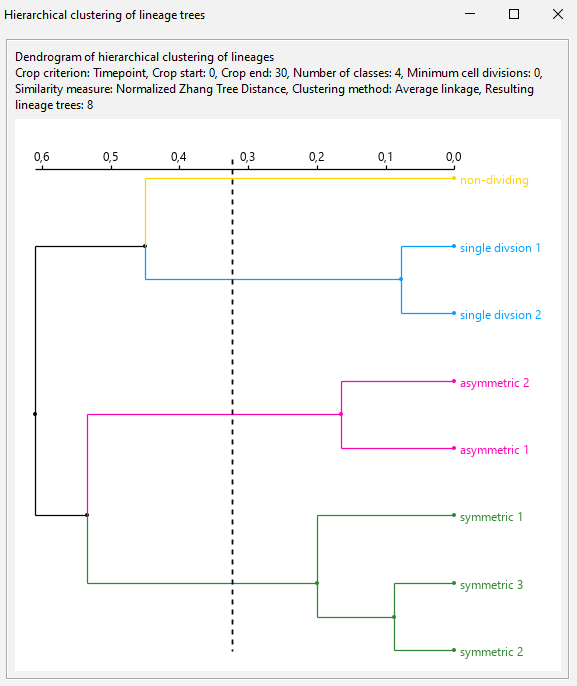
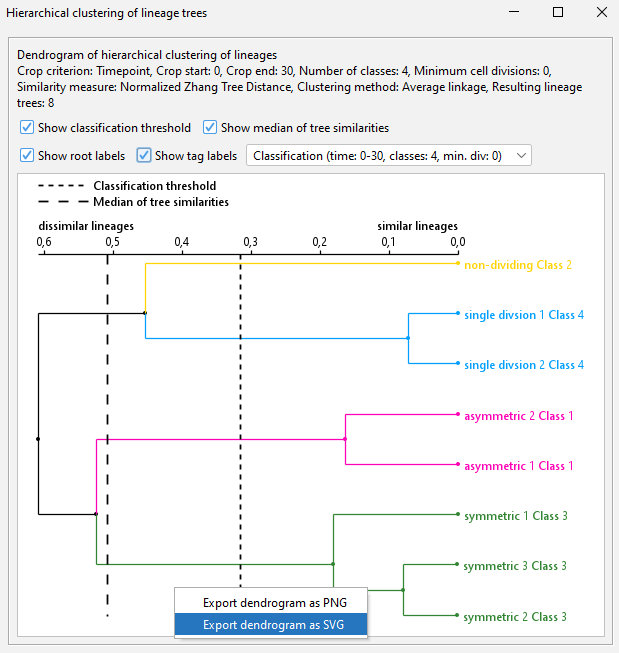
Update readme.md for deep lineage classification section
* Contains update of deep lineage release 0.2.0

diff --git a/docs/partC/deep_lineage/classification/readme.md b/docs/partC/deep_lineage/classification/readme.md
@@ -7,7 +7,8 @@
 * The cost function applied for the tree edit distance uses the attribute branch spot duration, which is computed as a
   difference of time points between to subsequent divisions reflecting the start and the end of a spot's lifetime.
 * Thus, the linage classification operates on Mastodon's branch graph.
-* The Zhang unordered edit distance allows the following edit operations:
+* The Zhang unordered edit distance allows the following edit operations. The edit operations are defined in a way that
+  they satisfy the constraints elaborated in section 3.1 ("Constrained Edit Distance Mappings") of the paper:
 
 ```
   Note: The prefix T may represent a node or a complete subtree. Nodes without this prefix are just nodes.
@@ -15,14 +16,14 @@
   1. Change label
  
         A         A'
-       / \  -&gt;   / \
+       / \  -->  / \
       TB TC     TB TC
  
  
   2a: Delete subtree (opposite of 2b)
  
         A         A
-       / \   -&gt;   |
+       / \   -->  |
       TB TC       TB
  
   2b: Insert subtree (opposite of 2a)
@@ -65,6 +66,17 @@
                                  TB and TC become the children of D)
 ```
 
+As an example, the following case explicitly does not fulfill the constraints mentioned in the paper:
+
+```
+ Delete a node without deleting one of its children
+          A            A
+         / \   -->   / | \
+        B  TC      TD TE TC
+       / \
+      TD TE        (delete B, TD and TE become children of A and TC remains)
+```
+
 * A basic example of the tree edit distance:
 
 ```
@@ -105,17 +117,16 @@ Tree2
     * Number of spots
 * Crop start
 * Crop end
-* Number of classes (minimum 2)
+* Number of classes
+  * Must not be greater than the number of lineage trees
 * Minimum number of divisions
+  * The minimum number of divisions a lineage tree must have to be considered in the classification
 * Similarity measures:
-  1. (default) ![normalized_zhang_distance.gif](normalized_zhang_distance.gif)<sup>1</sup>
+  1. (default) ![normalized_zhang_distance.gif](normalized_zhang_distance.gif)<sup>1,2</sup>
   2. ![per_branch_zhang_distance.gif](per_branch_zhang_distance.gif)<sup>1</sup>
-  3. [Zhang](https://doi.org/10.1007/BF01975866) Tree Edit Distance<sup>1</sup>
-  4. [Guignard et al.](https://doi.org/10.1126/science.aar5663) Tree Edit
-     Distance ![guignard_zhang_distance.gif](guignard_zhang_distance.gif)<sup>2</sup>
-
+  3. [Zhang](https://doi.org/10.1007/BF01975866) Tree Edit Distance<sup>1,2</sup>
   * <sup>1</sup>Local cost function: ![local_cost.gif](local_cost.gif)
-  * <sup>2</sup>Local cost function: ![local_cost_normalized.gif](local_cost_normalized.gif)
+  * <sup>2</sup>Local cost function with normalization: ![local_cost_normalized.gif](local_cost_normalized.gif)
 * Linkage strategy for hierarchical clustering,
   cf. [linkage methods](https://en.wikipedia.org/wiki/Hierarchical_clustering#Cluster_Linkage)
     1. Average (default)
@@ -137,7 +148,10 @@ Tree2
   similar to each other, but dissimilar to the other
   trees. ![Trackscheme](trackscheme.png)
 * The lineage classification dialog. ![Settings](settings.png)
-* The resulting dendrogram. ![Dendrogram](dendrogram.png)
+* The resulting dendrogram.
+  * User can toggle on/off root labes, tags, classification threshold and median of the tree edit distances.
+  * Export options to SVG and PNG accessible via a context menu.
+  * ![Dendrogram](dendrogram.png)
 * The resulting tag set used for coloring the track
   scheme. ![Trackscheme with tags](trackscheme_with_tags.png)
 * The resulting tag set used for coloring the track scheme branch
